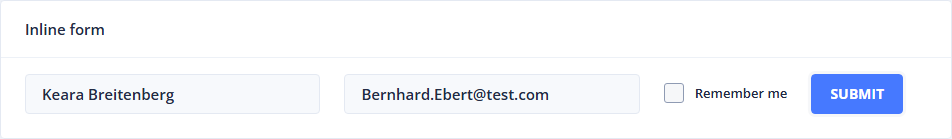
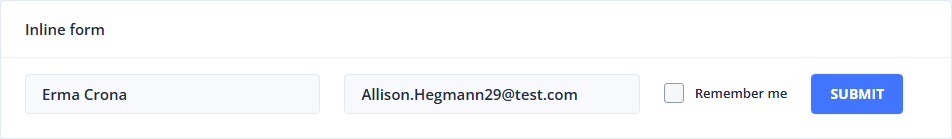
Section 8, Lesson 69 Fixures, Complete!

Changed region(s): [[0.3655, 0.6331, 0.6092, 0.7482], [0.0305, 0.6331, 0.1828, 0.7482]]

diff --git a/tests/test-with-page-objects.spec.ts b/tests/test-with-page-objects.spec.ts
@@ -3,46 +3,36 @@
 * It includes tests for navigating to the Form Layouts page, Datepicker page, Toaster page, Tooltip page, and Smart Table page.
 * Additionally, it showcases parameterized methods in the Form Layouts and Datepicker pages.
  */
-import { test } from '@playwright/test'
-import { PageManager } from '../page-objects/page-manager'
+import { test } from '../fixture'
 import { faker } from '@faker-js/faker'
-
-/**
-* Set up the test environment before each test case.
- */
-test.beforeEach(async ({ page }) => {
-    await page.goto('/')
-})
 
 /**
 * Navigate to the Form Layouts page and verify the navigation.
  */
-test('Navigate to Form Layouts page', async ({ page }) => {
-    const pm = new PageManager(page);
-    await pm.navigateTo.formLayoutsPage();
-    await pm.navigateTo.datePickerPage();
-    await pm.navigateTo.toasterPage();
-    await pm.navigateTo.tooltipPage();
-    await pm.navigateTo.smartTablePage();
+test('Navigate to Form Layouts page', async ({ pom }) => {
+    await pom.navigateTo.formLayoutsPage()
+    await pom.navigateTo.datePickerPage()
+    await pom.navigateTo.toasterPage()
+    await pom.navigateTo.tooltipPage()
+    await pom.navigateTo.smartTablePage()
 })
 
 /**
 * Test the parameterized methods of the Form Layouts and Datepicker page objects.
  */
-test('Parameterized Page Object Methods', async ({ page }) => {
-    const pom = new PageManager(page)
+test('Parameterized Page Object Methods', async ({ pom }) => {
     const randomFullName = faker.person.fullName()
     const randomEmail = faker.internet.email({ provider: 'test.com' })
 
     await pom.navigateTo.formLayoutsPage()
     await pom.formLayoutsPage.submitUsingTheGridForm(process.env.TEST_USER_EMAIL!, process.env.TEST_USER_PASSWORD!, 'Option 2')
-    await page.waitForTimeout(500) // Wait for 500 milliseconds to ensure the form submission is processed
-    await page.screenshot({ path: 'screenshots/form-layouts.png' })  // Option 1: Capture a screenshot of the Form Layouts page after form submission
-    const formLayoutPageBuffer = await page.screenshot({ path: 'screenshots/form-layouts.png' })  // Option 2: Log the screenshot buffer to the console for debugging purposes
+    // await pom.waitForTimeout(500) // Wait for 500 milliseconds to ensure the form submission is processed
+    // await pom.screenshot({ path: 'screenshots/form-layouts.png' })  // Option 1: Capture a screenshot of the Form Layouts page after form submission
+    // const formLayoutPageBuffer = await pom.screenshot({ path: 'screenshots/form-layouts.png' })  // Option 2: Log the screenshot buffer to the console for debugging purposes
     //console.log(formLayoutPageBuffer.toString('base64'))        // Log the screenshot buffer to the console in base64 format for debugging purposes
-    
+
     await pom.formLayoutsPage.submitInlineForm(randomFullName, randomEmail, false)
-    await page.locator('nb-card', { hasText: "Inline form" }).screenshot({ path: 'screenshots/inlineForm.png' })      // Capture a screenshot of the Inline form after submission
+    //await pom.locator('nb-card', { hasText: "Inline form" }).screenshot({ path: 'screenshots/inlineForm.png' })      // Capture a screenshot of the Inline form after submission
     await pom.navigateTo.datePickerPage()
     await pom.datePickerPage.selectCommonDatepickerDateFromToday(5)
     await pom.datePickerPage.selectDatepickerWithRangeFromToday(7, 20)

diff --git a/fixture.ts b/fixture.ts
@@ -1,0 +1,27 @@
+/**
+* Fixture for initializing the PageManager instance
+ */
+import { test as base } from '@playwright/test'
+import { PageManager } from './page-objects/page-manager'
+
+type FixtureTypes = {
+    pom: PageManager
+}
+
+export const test = base.extend<FixtureTypes>({
+    /**
+    * Before each test (Setup), navigate to the base URL and create a new instance of PageManager.
+    * The PageManager instance is then passed to the test context for use in the tests.
+    */
+    pom: async ({ page }, use) => {
+        await page.goto('/')
+        const manager = new PageManager(page)
+        await use(manager)
+
+    }
+    /**
+    * After each test (Teardown), perform any necessary cleanup actions.
+    * This can include closing the browser, clearing cookies, or resetting any modified state.
+    * The teardown logic is executed after the test has completed, regardless of whether it passed or failed.
+    */
+})
